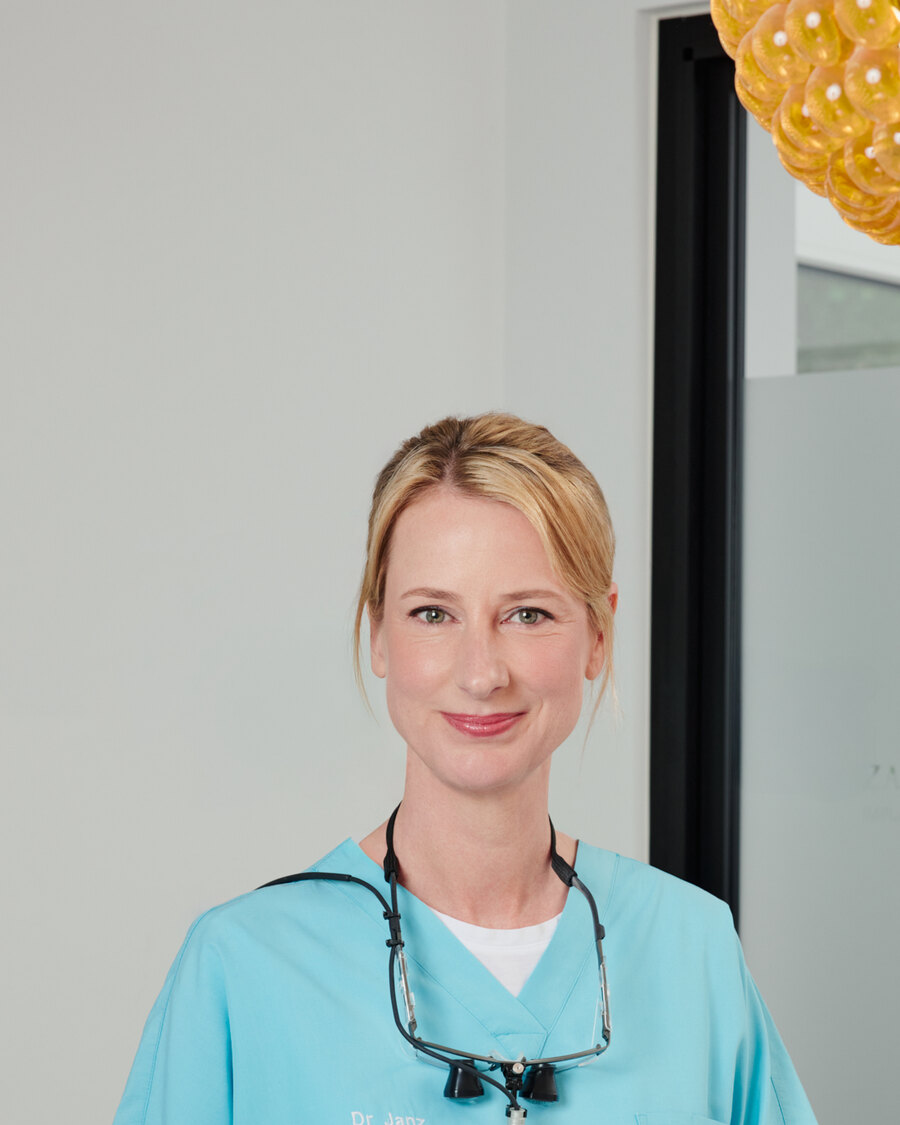
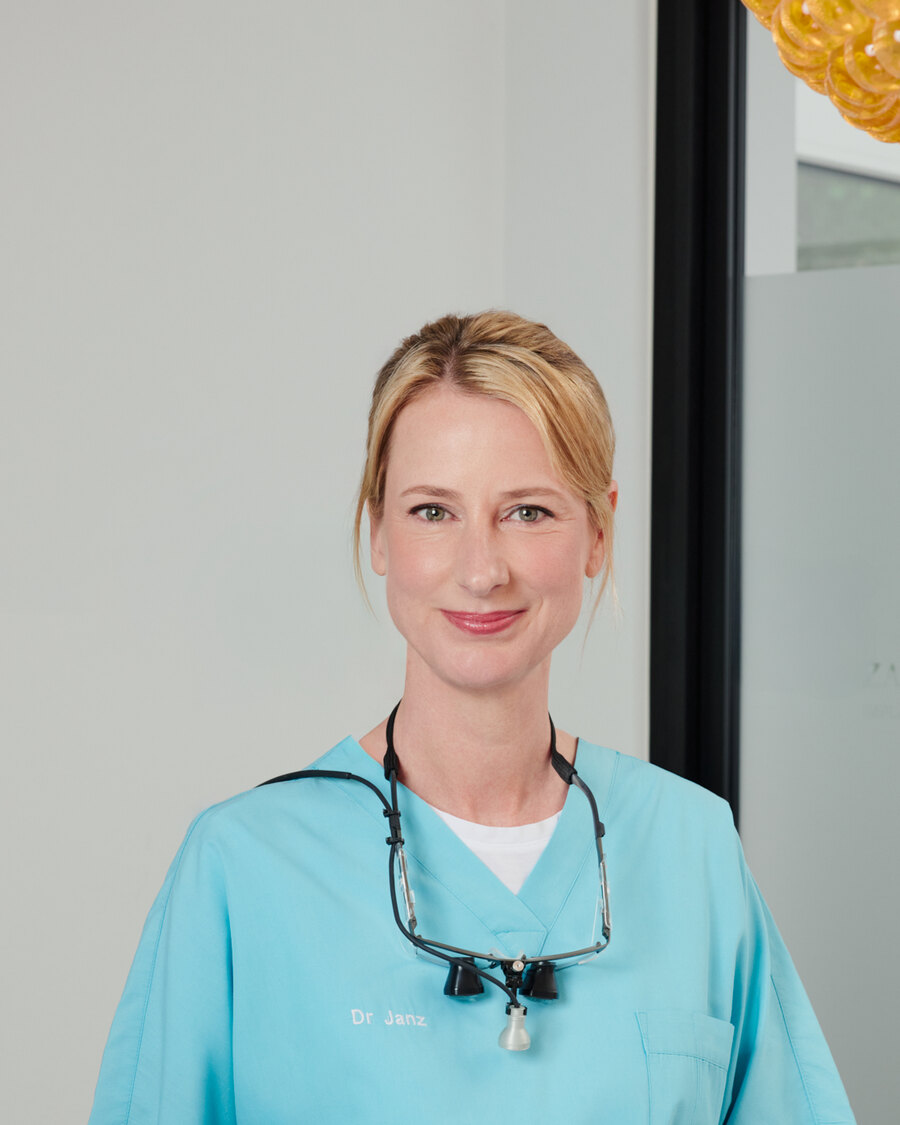
feat: Hero/Janz nachjustiert + Fortbildungs-Carousel (Mama-Feedback 2)
- Hero: beide Aerztinnen zentriert (Crop weiter rechts)
- Dr. Janz: weniger Platz ueber dem Kopf (Team-Seite + Teaser), Teaser kopf-schonend
- Fortbildungen: automatisch laufendes Carousel mit echten Study-Club-/OP-Fotos
  statt einzelnem (nicht passendem) Mikroskop-Bild

diff --git a/app/[locale]/fortbildungen/page.tsx b/app/[locale]/fortbildungen/page.tsx
@@ -1,5 +1,5 @@
 import type { Metadata } from "next";
-import Image from "next/image";
+import Carousel from "../../components/Carousel";
 import SeiteHero from "../../components/SeiteHero";
 import SektionsHeader from "../../components/SektionsHeader";
 import BaumDekor from "../../components/BaumDekor";
@@ -28,6 +28,12 @@ export default async function FortbildungenSeite({ params }: { params: Promise<{
   const termine = t.termine as Record<string, unknown>;
   const studyClubs = termine.studyClubs as Record<string, Record<string, unknown>>;
   const kontaktSection = t.kontaktSection as Record<string, string>;
+
+  const fortbildungsBilder = [
+    { src: "/images/fortbildung-1.jpg", alt: "Study Club: praktische chirurgische Fortbildung am Patienten unter Anleitung" },
+    { src: "/images/fortbildung-2.jpg", alt: "Hands-on Fortbildung im Team in der Praxis" },
+    { src: "/images/fortbildung-3.jpg", alt: "Operative Fortbildung — chirurgische Behandlung in der Praxis" },
+  ];
 
   const termineArr = Object.values(studyClubs).map((sc) => ({
     titel: sc.titel as string,
@@ -145,19 +151,10 @@ export default async function FortbildungenSeite({ params }: { params: Promise<{
         </div>
       </section>
 
-      {/* Bild: Mikroskop / Supervision */}
+      {/* Carousel: Fortbildung / Study Club (automatisch weiterlaufend) */}
       <section className="relative pb-6 lg:pb-10 overflow-hidden" style={{ background: "#f4f1ec" }}>
         <div className="relative z-10 max-w-4xl mx-auto px-6 lg:px-10">
-          <div className="overflow-hidden anim-einblenden" style={{ borderRadius: "22px", boxShadow: "0 16px 36px -8px rgba(105,123,123,0.14)" }}>
-            <Image
-              src="/images/fortbildung-mikroskop.jpg"
-              alt="Fortbildung am Operationsmikroskop — gemeinsames Lernen unter Supervision"
-              width={1200}
-              height={800}
-              className="w-full h-auto object-cover"
-              style={{ aspectRatio: "3/2", filter: "saturate(0.92) brightness(1.02)" }}
-            />
-          </div>
+          <Carousel slides={fortbildungsBilder} />
         </div>
       </section>
 
@@ -192,22 +189,6 @@ export default async function FortbildungenSeite({ params }: { params: Promise<{
                 <p className="text-xs" style={{ color: "#6a7a7a", fontWeight: 300, lineHeight: 1.7 }}>{vorteilItems[key].text}</p>
               </div>
             ))}
-          </div>
-        </div>
-      </section>
-
-      {/* Bild: Study Club */}
-      <section className="relative pb-6 lg:pb-10 overflow-hidden" style={{ background: "#f0ede8" }}>
-        <div className="relative z-10 max-w-4xl mx-auto px-6 lg:px-10">
-          <div className="overflow-hidden anim-einblenden" style={{ borderRadius: "22px", boxShadow: "0 16px 36px -8px rgba(105,123,123,0.14)" }}>
-            <Image
-              src="/images/fortbildung-studyclub.jpg"
-              alt="Study Club: praktische chirurgische Fortbildung — Operationen am eigenen Patienten unter Anleitung"
-              width={1200}
-              height={800}
-              className="w-full h-auto object-cover"
-              style={{ aspectRatio: "3/2", objectPosition: "center 30%", filter: "saturate(0.92) brightness(1.02)" }}
-            />
           </div>
         </div>
       </section>

diff --git a/app/components/Carousel.tsx b/app/components/Carousel.tsx
@@ -1,0 +1,64 @@
+"use client";
+
+import { useState, useEffect } from "react";
+import Image from "next/image";
+
+type Slide = { src: string; alt: string };
+
+/**
+ * Automatisch weiterlaufendes Bild-Carousel (Crossfade).
+ * Pausiert bei Hover; Punkte zum manuellen Wechseln.
+ * Static-Export-kompatibel (rein client-side).
+ */
+export default function Carousel({ slides, interval = 4500 }: { slides: Slide[]; interval?: number }) {
+  const [index, setIndex] = useState(0);
+  const [paused, setPaused] = useState(false);
+
+  useEffect(() => {
+    if (paused || slides.length <= 1) return;
+    const t = setInterval(() => setIndex((i) => (i + 1) % slides.length), interval);
+    return () => clearInterval(t);
+  }, [paused, slides.length, interval]);
+
+  return (
+    <div
+      className="relative overflow-hidden anim-einblenden"
+      style={{ borderRadius: "22px", boxShadow: "0 16px 36px -8px rgba(105,123,123,0.14)", aspectRatio: "3/2" }}
+      onMouseEnter={() => setPaused(true)}
+      onMouseLeave={() => setPaused(false)}
+    >
+      {slides.map((s, i) => (
+        <Image
+          key={s.src}
+          src={s.src}
+          alt={s.alt}
+          fill
+          sizes="(max-width: 768px) 100vw, 900px"
+          className="object-cover transition-opacity duration-1000"
+          style={{ opacity: i === index ? 1 : 0, objectPosition: "center 30%", filter: "saturate(0.92) brightness(1.02)" }}
+          priority={i === 0}
+        />
+      ))}
+
+      {/* Punkte */}
+      <div className="absolute bottom-4 left-0 right-0 flex justify-center gap-2 z-10">
+        {slides.map((s, i) => (
+          <button
+            key={s.src}
+            onClick={() => setIndex(i)}
+            aria-label={`Bild ${i + 1} von ${slides.length} anzeigen`}
+            className="rounded-full transition-all duration-300 cursor-pointer"
+            style={{
+              width: i === index ? "22px" : "8px",
+              height: "8px",
+              background: i === index ? "#F26522" : "rgba(255,255,255,0.75)",
+              boxShadow: "0 1px 3px rgba(0,0,0,0.3)",
+              border: "none",
+              padding: 0,
+            }}
+          />
+        ))}
+      </div>
+    </div>
+  );
+}

diff --git a/app/[locale]/page.tsx b/app/[locale]/page.tsx
@@ -483,7 +483,7 @@ export default async function Homepage({ params }: { params: Promise<{ locale: s
                 <div className="relative mb-3 md:mb-6 inline-block">
                   <div className="absolute -inset-3 anim-blob opacity-40 hidden md:block" style={{ border: "1.5px solid rgba(242, 101, 34, 0.12)", borderRadius: "54% 46% 51% 49% / 49% 54% 46% 51%", animationDelay: `${i * 2}s` }} />
                   <div className="team-bild-hover relative overflow-hidden w-32 h-32 md:w-56 md:h-56 mx-auto" style={{ borderRadius: "50% 50% 44% 56% / 54% 44% 56% 46%", boxShadow: "0 22px 44px -10px rgba(105, 123, 123, 0.16)" }}>
-                    <Image src={a.bild} alt={a.name} fill className="object-cover" style={{ filter: "saturate(0.92) brightness(1.02)", objectPosition: i === 0 ? "center 28%" : "center center" }} />
+                    <Image src={a.bild} alt={a.name} fill className="object-cover" style={{ filter: "saturate(0.92) brightness(1.02)", objectPosition: i === 0 ? "center 28%" : "center 25%" }} />
                     <div className="absolute inset-0" style={{ background: "linear-gradient(to top, rgba(105, 123, 123, 0.08), transparent 40%)" }} />
                   </div>
                 </div>
